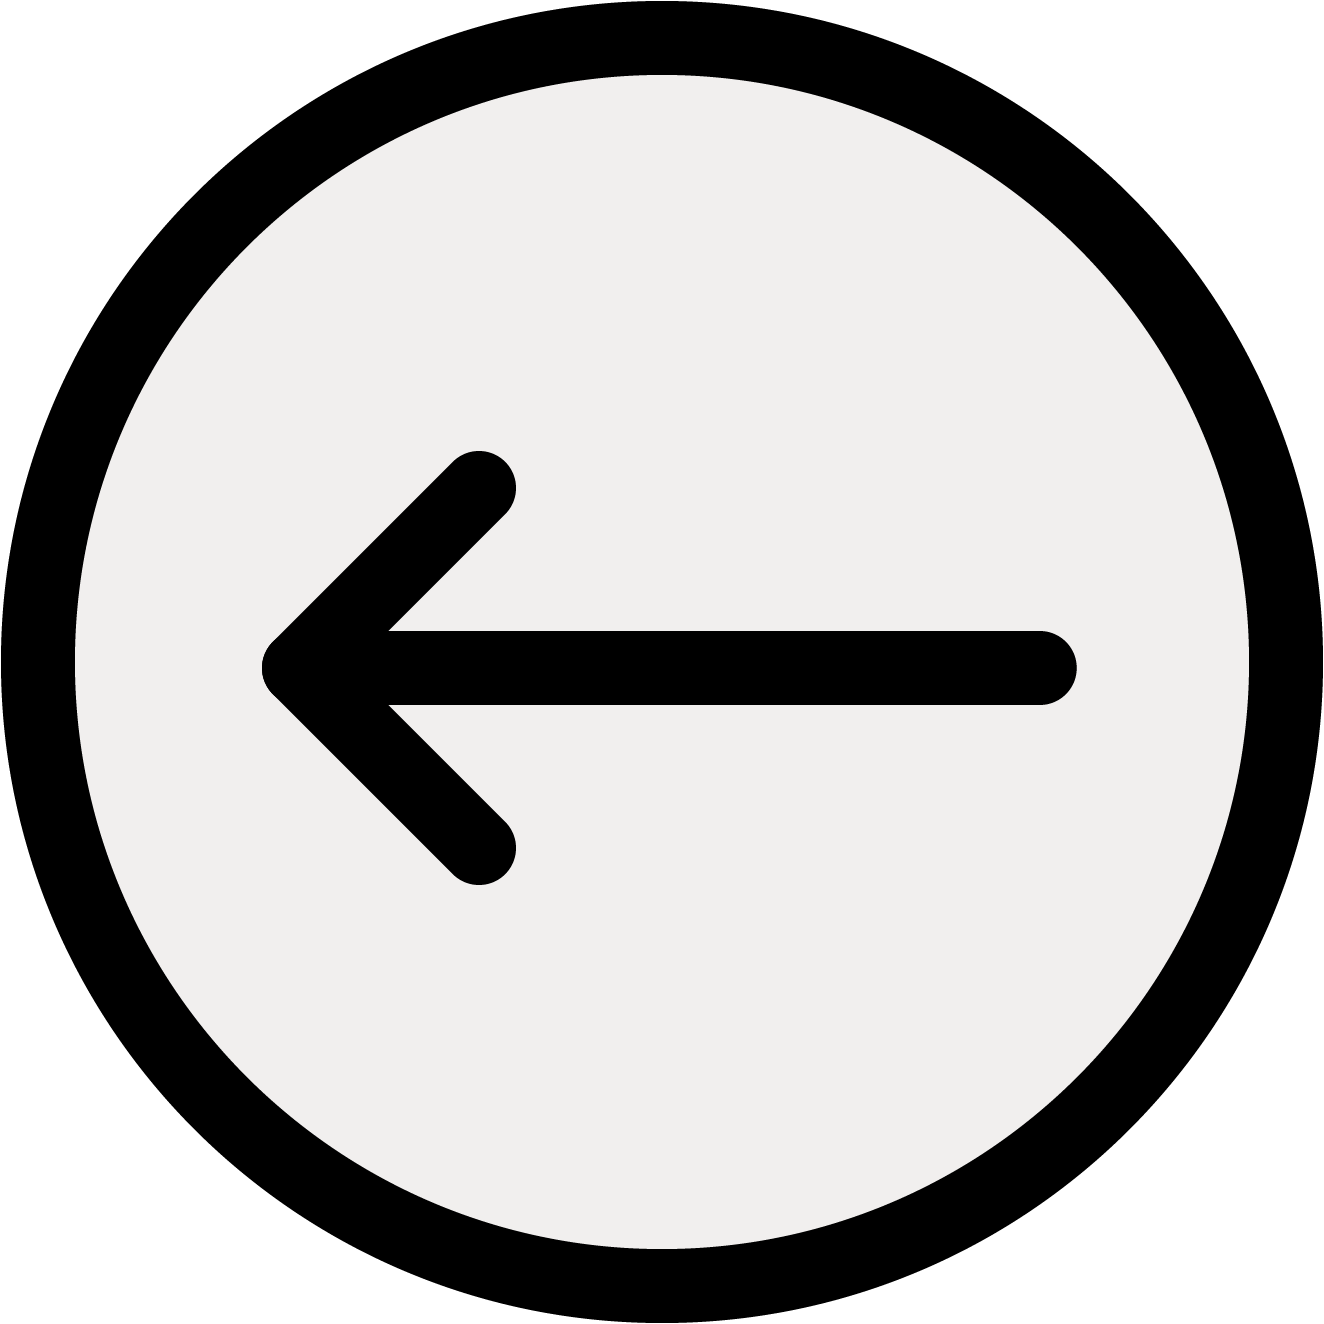
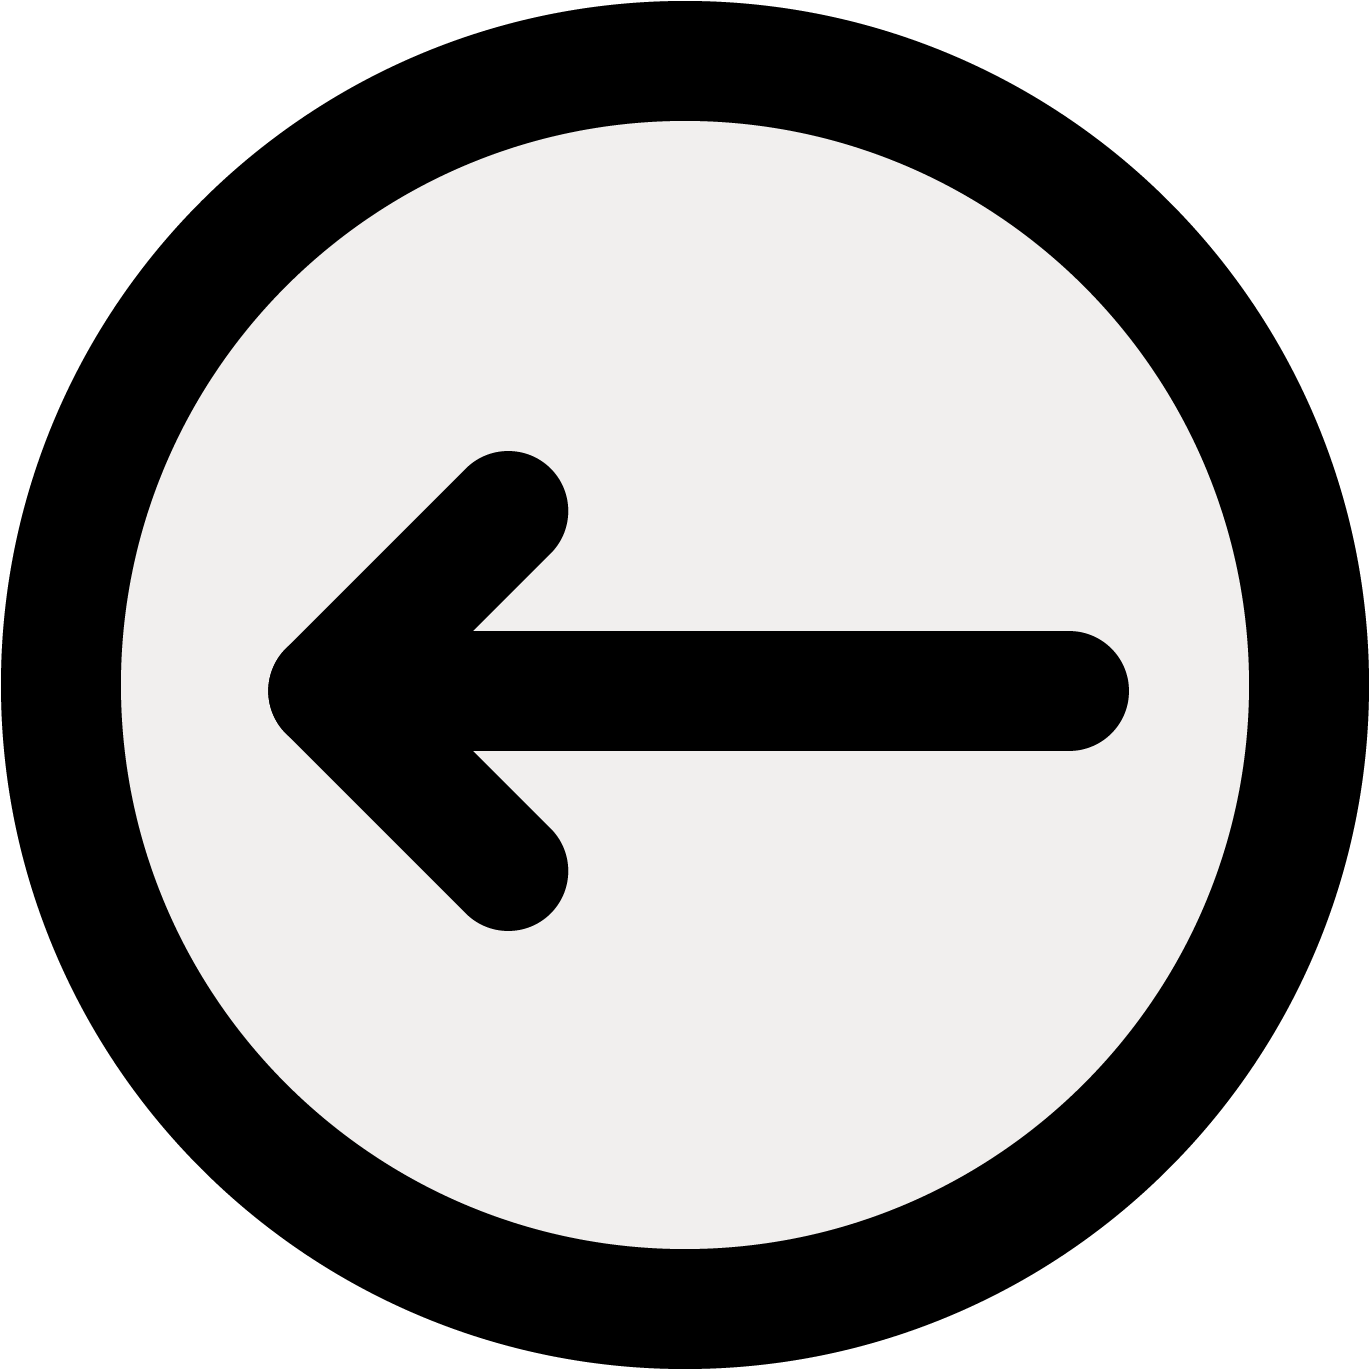
updated content

diff --git a/_groups/research.html b/_groups/research.html
@@ -13,8 +13,12 @@ order: 3
 
 <div class="home">
 
-  <p>This list will grow as I dive deeper into interesting research projects.</p>
-  <p>NOTE: These pages are just placeholder until I add all of the details soon.</p>
+  <p>
+    My interest in learning has driven me to explore scientific research. 
+    In addition to learning and applying physics concepts, I especially enjoy the computational side of science 
+    where algorithms are designed to process data and analyze results. 
+    I hope this list grows as I further my passion for science.
+  </p>
 
   {% assign sorted_research = site.research | sort: 'order' | reverse%}
 

diff --git a/assets/css/style.scss b/assets/css/style.scss
@@ -13,7 +13,7 @@
 $color1: #DADDD8;
 $color2: #1A1D23;
 $color3: #f1efee;
-$color4: #e78888;
+$color4: #E5625E;
 
 $box-shadow-color: hsla(0deg, 0%, 0%, 0.075);
 
@@ -385,9 +385,9 @@ div.caption p {
 }
 
 .back-button{
-  height: 50px;
+  height: 40px;
   flex-shrink: 0;
-  max-width:50px;
+  max-width:40px;
 
   background-image: url("/assets/img/back-icon.png");
 }
@@ -396,8 +396,8 @@ div.caption p {
   background-image: url("/assets/img/back-icon-filled.png");
   background-size: cover;
 
-  height: 50px;
-  width: 50px;
+  height: 40px;
+  width: 40px;
 }
 
 // === Music page formatting ===

diff --git a/_groups/engineering.html b/_groups/engineering.html
@@ -13,7 +13,10 @@ order: 4
 
 <div class="home">
 
-  <p>I am currently studying engineering at Cal Poly SLO. This page contains the engineering projects I have worked on so far.</p>
+  <p>
+    In addition to the pure-software projects I've worked on, my mechanical engineering degree is teaching me how to design and analyze physical systems. 
+    Here are some projects that I have worked on during my time at Cal Poly so far.
+  </p>
 
   {% assign sorted_engineering = site.engineering | sort: 'order' | reverse%}
 

diff --git a/_groups/work.html b/_groups/work.html
@@ -13,8 +13,7 @@ order: 1
 
 <div class="home">
   <p>Throughout my academic career, I have had the pleasure to get industry experience at multiple companies through various internship programs.</p>
-  <p>NOTE: These pages are just placeholders until until I add all of the details soon.</p>
-
+  
   {% assign sorted_work = site.work | sort: 'order' | reverse%}
 
   {% for project in sorted_work%}

diff --git a/_research/veritas.md b/_research/veritas.md
@@ -7,3 +7,23 @@ tags: [physics, linux, c++, cal-poly]
 time: "Fall 2023 - Present"
 order: 1
 ---
+
+<div class="wrapper">
+  <div class="image-background" id="gravity-simulator-background">
+    <img class="project-img" src="https://veritas.sao.arizona.edu/images/stories/veritas_and_building.jpg" alt="The 4-telescope array of VERITAS">
+    <div class="caption">
+        <p>The 4-telescope array of VERITAS in Tuscan, AZ. <a href="https://veritas.sao.arizona.edu/">Source</a></p>
+    </div>
+  </div>
+</div>
+
+I started working in Dr. Jodi Christiansen's lab at the beginning of my third year at Cal Poly. I am really interested in a physics-based career path, so this was an amazing opportunity to get involved with undergraduate research work. 
+
+Our group is a part of the research collaboration that analyzes data from the [VERITAS Telescope](https://veritas.sao.arizona.edu/), specifically the spectra of blazars and other high energy extragalactic sources.
+
+When I first started most of my time was spent getting comfortable with the linux terminal and learning the physics behind gamma-ray astronomy. My main task during the year was to use our computing system to analyze 3 potential blazars. There are multiple stages of the computational analysis that need to be performed, which required a very organized directory system and documentation method in order to not mess up. Each analysis gave a spectrum and a sky map that allowed us to determine the significance of each source. As more data was collected and our analysis parameters were optimized, we could see the improvements both visually and quantitatively. In May 2024, the 5 other students in our group and I presented our findings in a poster at the [Bailey College Student Research Conference](https://cosam.calpoly.edu/conference).
+
+Towards the end of the year, I started on a new project to improve the fit seeding algorithm. We use Markov-Chain Monte-Carlo to fit our experimental telescope data to simulated results. Since this method uses walkers to find the optimal solution, a bad starting guess could cause the algorithm to get stuck in a local minimum. Currently we use Hillas parameters to generate the starting parameters, but this this doesn't work very well when the pool of light doesn't completely intersect the camera. The goal of my project is to test if we can generate starting parameters based on their likelihood to measure light at the brightest camera pixels.
+
+I've learned lot just in the past year, both from the physics side and the research side. We use concepts including synchrotron self-Compton, Cherenkov radition, doppler effect, and other optical and astronomical phenomena to interpret our results. On the research side, I've used a linux terminal, performed fits on my spectra in MATLAB, and created a research poster, among other things.
+

diff --git a/_work/dexcom.md b/_work/dexcom.md
@@ -7,3 +7,9 @@ tags: [systems-engineering, med-device, lab-work, dexcom, internship]
 time: "Summer 2024"
 order: 5
 ---
+
+I returned home to San Diego during my third summer of university to work at Dexcom, and medical device company specializing in wearable glucose sensors. I spent 8 weeks learning about the product, existing company technology, and experiment design to improve upon an existing test fixture to assess an important user concern. In order to make sure I could complete everything in time for the end of the summer, I created a detailed project timeline to coordinate long lead-time tasks.
+
+My project required me to connect a lot of different skills together. I read standards and regulations documentation to decide on my factors and responses, used a load cell for data collection, and learned JMP DOE and analysis tools. At the end of the summer, I compiled my work into an official test report and presented my work in a successful presentation to around 20 coworkers. I left the project in a place where results are clear and my test method can be used as a basis for future testing.
+
+I really enjoy working in the medical device industry. I found that the direct impact our product provides to people with diabetes really made my work meaningful. I also got to try one of the sensors myself and have first-hand experience that helped me account for user needs during my testing.

diff --git a/_work/yaskawa.md b/_work/yaskawa.md
@@ -7,3 +7,7 @@ tags: [robotics, embedded-programming, kinematics, internship]
 time: "Summer 2023"
 order: 4
 ---
+
+After my second year studying at Cal Poly, I got a summer-long internship at Yaskawa. I was on the controls team based out of the bay area in Santa Clara, which does research and development of silicon wafer handling robots. During my 12 weeks I was exposed to many robotics, controls, as well as general engineering development techniques.
+
+I worked on a plethora of projects related to silicon wafer handling robots. I integrated the robot's commands and laser to take measurements of the robot's performance, wrote embedded controller programs to handle certain memory use cases, as well derived kinematics relationships between different coordinate frames and implemented microservice commincation to pass that information between internal utilities to better visualize robot positions. I learned a lot over the summer that exposed me to the rigorous coding workflow that many companies use today.

diff --git a/_work/learning-assistant.md b/_work/learning-assistant.md
@@ -7,3 +7,9 @@ tags: [physics, teaching]
 time: "Jan 2023 - June 2024"
 order: 3
 ---
+
+I work part-time throughout the school year as a learning assistant in introductory physics courses at Cal Poly. The "studio" classes are structured so that there is a lot of group work time for the students, and I am responsible for guiding their conversations towards a better understanding of physics.
+
+There is also time set aside outside of class for me and my fellow learning assistants to review the course material with our instructor and discuss pedagogical techniques for us to practice. Our goal is to never give the students the answer and instead ask probing questions to understand where their confusion is and introduce thought-provoking examples for them to reconcile.
+
+I am unable to continue while I study abroad for the 2024-2025 school year, I really enjoy this job and plan to continue when I return home next Fall.

diff --git a/_work/defispot.md b/_work/defispot.md
@@ -7,3 +7,7 @@ tags: [react, javascript, web-design, internship]
 time: "Summer 2022"
 order: 2
 ---
+
+During the summer after my first year of university, Keith, my programming teacher from the [League of Amazing Programmers](https://www.jointheleague.org/) offered me chance to work on this tech startup's website. He knew my background in software could be of use and I really appreciate the opportunity he gave me to kickstart my career.
+
+The website was designed for users to exchange currencies, and my project was to improve the graphs and visualization of trend data. I worked both on front-end changes as well as adding functionality to the back-end to support more responsive graphs with new API calls.

diff --git a/_work/scorestream.md b/_work/scorestream.md
@@ -8,3 +8,8 @@ tags: [google-appscript, javascript, prototyping]
 time: "Summer 2022"
 order: 1
 ---
+
+I did some freelance programming work for this local sports startup company. I was tasked to work on two prototyping projects. This was very independent work and meant I was in charge of my own time management.
+
+The first project involved utilizing ScoreStream's API to aggregate data for all upcoming games across time zones and present users with a google form for selecting games of interest. The second project was a prototype website to mint NFTs on the FLOW blockchain based on user uploaded image data.
+
